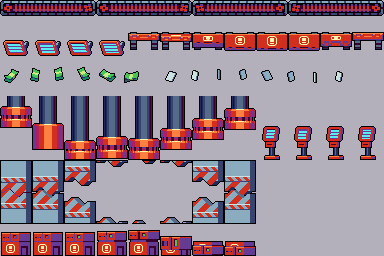
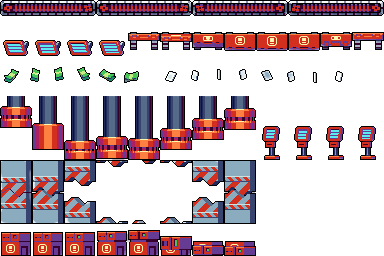
Adicionado mais texturas do jogo

diff --git a/Cooper's Stories/mapa.py b/Cooper's Stories/mapa.py
@@ -1,6 +1,6 @@
 import pygame
 from configs import *
-from blocos import Bloco, BlocosPisos
+from blocos import Bloco, BlocosEstaticos
 from personagem_principal import Jogador
 from level_config import *
 from importacoes import importar_arquivo_csv, importar_blocos_recortados
@@ -15,8 +15,19 @@ class MostrarBlocos():
 
     def __init__(self, level, superficie):
         self.superficie = superficie
-        layout = importar_arquivo_csv(level["pisos"])
-        self.terreno_mapa = self.gerar_blocos(layout, "pisos")
+
+        # Blocos de piso
+        pisos_layout = importar_arquivo_csv(level["pisos"])
+        self.terreno_mapa = self.gerar_blocos(pisos_layout, "pisos")
+
+        # Blocos de background
+        objetos_background_layout = importar_arquivo_csv(level["objetos"])
+        self.objetos_background = self.gerar_blocos(
+            objetos_background_layout, "objetos")
+
+        # Moedas
+        moedas_layout = importar_arquivo_csv(level["dinheiro"])
+        self.moedas = self.gerar_blocos(moedas_layout, "moedas")
 
         # Movimento da câmera
         self.movimento = 0
@@ -37,9 +48,26 @@ class MostrarBlocos():
                         lista_blocos_pisos = importar_blocos_recortados(
                             "./assets/level/tile_set/Tiles.png")
                         bloco_superficie = lista_blocos_pisos[int(coluna)]
-                        sprite = BlocosPisos(
+                        sprite = BlocosEstaticos(
                             tamanhoBloco, PosX, PosY, bloco_superficie)
-                        blocos.add(sprite)
+
+                    if tipo == "objetos":
+                        lista_blocos_background = importar_blocos_recortados(
+                            "./assets/level/tile_set/Animated_objects.png")
+                        blocos_background = lista_blocos_background[int(
+                            coluna)]
+                        sprite = BlocosEstaticos(
+                            tamanhoBloco, PosX, PosY, blocos_background)
+
+                    if tipo == "moedas":
+                        lista_blocos_moedas = importar_blocos_recortados(
+                            "./assets/level/tile_set/Animated_objects.png")
+                        blocos_moedas = lista_blocos_moedas[int(coluna)]
+                        sprite = BlocosEstaticos(
+                            tamanhoBloco, PosX, PosY, blocos_moedas)
+
+                    blocos.add(sprite)
+
         return blocos
 
     def movimento_camera(self):
@@ -102,7 +130,12 @@ class MostrarBlocos():
         '''
         # Mapa
         self.terreno_mapa.draw(self.superficie)
+        self.objetos_background.draw(self.superficie)
+        self.moedas.draw(self.superficie)
+        self.moedas.update(-2)
         self.terreno_mapa.update(-2)
+        self.objetos_background.update(-2)
+
         # self.terreno_mapa.update(self.movimento)
         # self.movimento_camera()
         # self.colisao_horizontal()

diff --git a/Cooper's Stories/blocos.py b/Cooper's Stories/blocos.py
@@ -20,7 +20,7 @@ class Bloco(pygame.sprite.Sprite):
         self.rect.x += movimento_x
 
 
-class BlocosPisos(Bloco):
+class BlocosEstaticos(Bloco):
     def __init__(self, tam, posx, posy, superficie):
         super().__init__(tam, posx, posy)
         self.image = superficie
